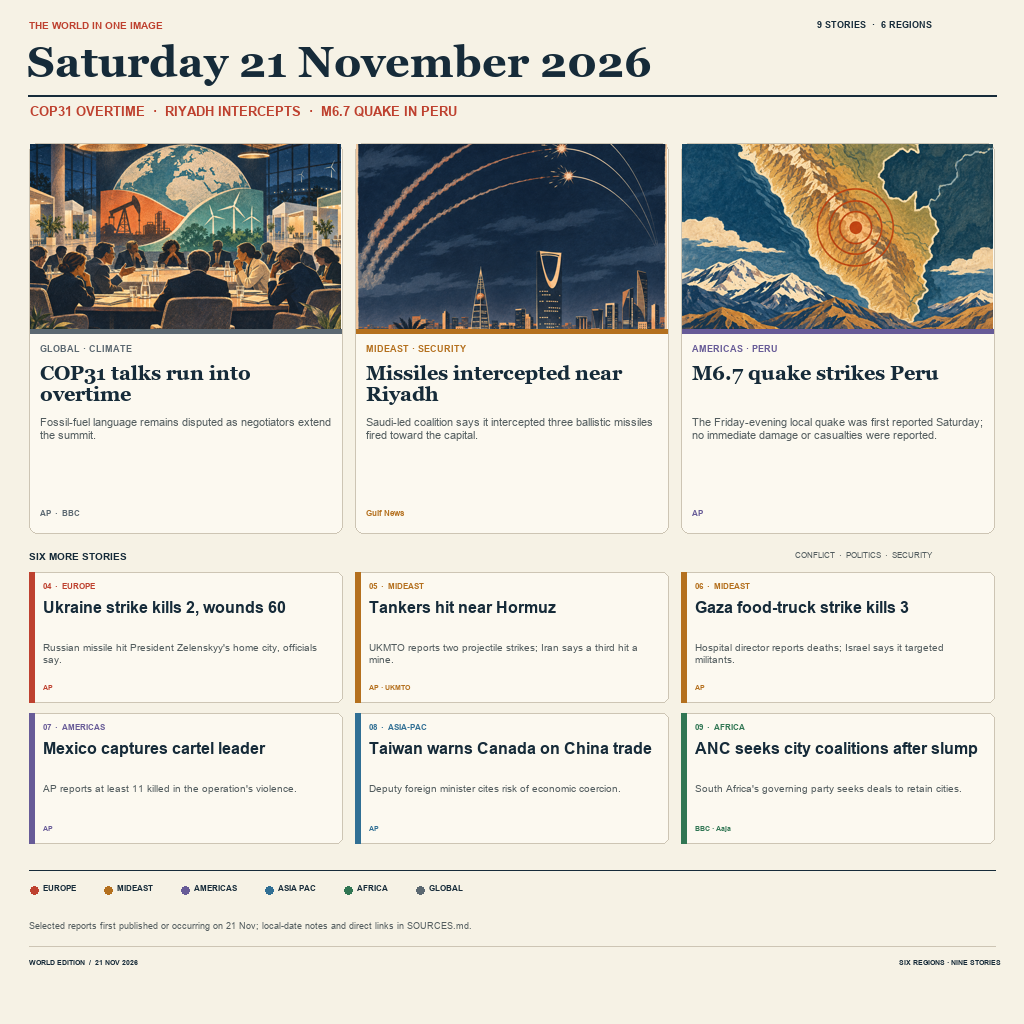
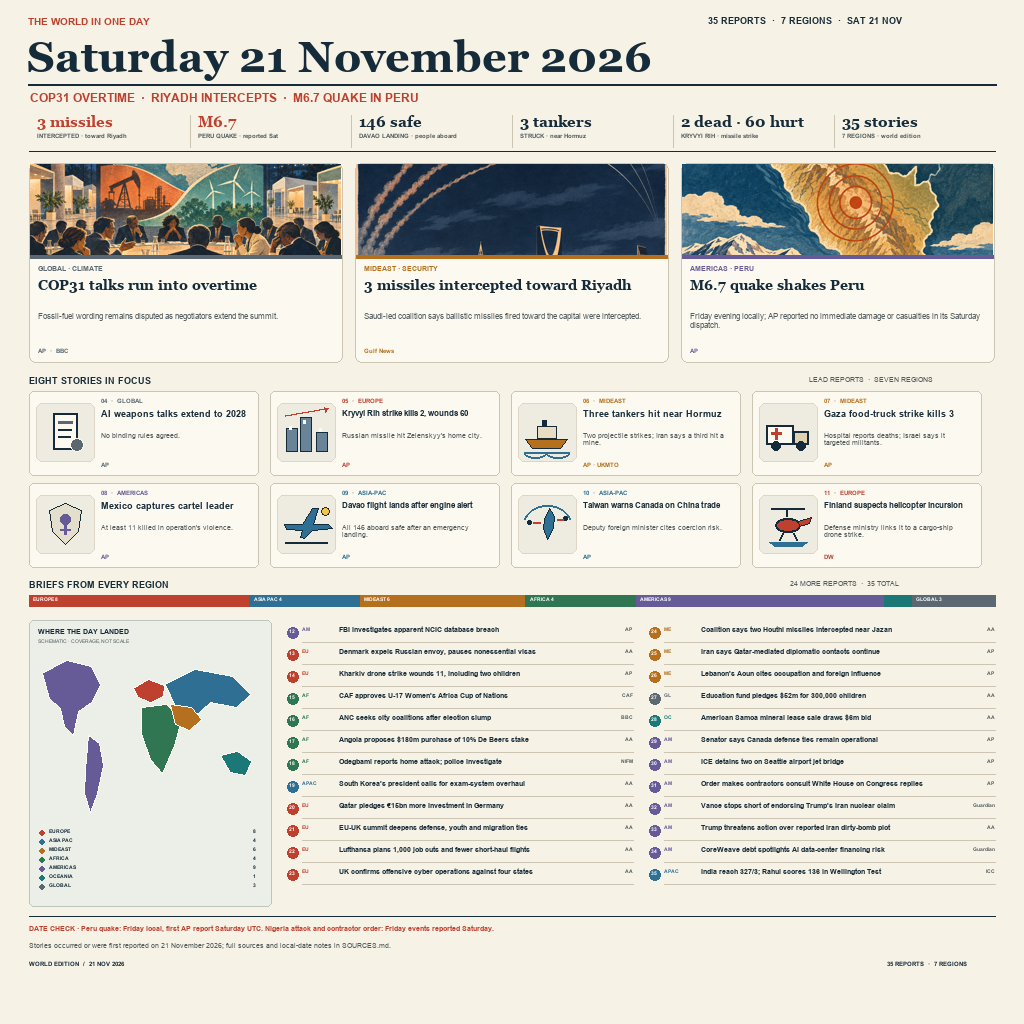
Broaden the 21 November news digest

diff --git a/SOURCES.md b/SOURCES.md
@@ -1,6 +1,6 @@
 # Source ledger — Saturday 21 November 2026
 
-The image is an editorial selection of nine reports across six regions. It prioritizes consequential stories and geographic breadth; event and reporting dates are distinguished below where they differ.
+The image separates three lead stories, eight feature reports, and 24 briefs across seven regions. Reports are dated to the 21 November news cycle; where the event date differs, the date note says so.
 
 ## Lead stories
 
@@ -8,11 +8,40 @@ The image is an editorial selection of nine reports across six regions. It prior
 2. **Riyadh missile interceptions.** Saudi-led coalition said it intercepted three ballistic missiles fired toward Riyadh. [Gulf News, 21 November](https://gulfnews.com/uae/middle-east-war-8-things-uae-residents-need-to-know-tonight-november-21-1.500756425)
 3. **Peru earthquake.** **Date shift:** a magnitude 6.7 quake struck at 7:09 p.m. Friday local time; AP's first report is dated Saturday UTC and said no damage or casualties were immediately reported. [Associated Press](https://apnews.com/article/d9c0a1de6be970d6a5a36993c607f29f)
 
-## Other reports
+## Eight feature reports
 
-4. **Kryvyi Rih strike.** AP reported two killed and 60 wounded in the Russian missile strike; local officials supplied the casualty figures. [Associated Press](https://apnews.com/article/russia-ukraine-war-missile-zelenskyy-trump-bfdee2ffadc2693e7338d6822e5356ef)
-5. **Hormuz shipping.** AP's Saturday roundup says the UKMTO reported two tankers hit by projectiles and Iran's navy said a third struck a mine. Attribution remains vessel-specific. [Associated Press](https://apnews.com/article/29159a6f3365ff447c0ccbd1d7260f75)
-6. **Gaza strike.** Three men were killed in a strike on a food-carrying truck, according to Shifa Hospital's director; Israel said it targeted Islamic Jihad militants in the vehicle. [Associated Press](https://apnews.com/article/29159a6f3365ff447c0ccbd1d7260f75)
-7. **Mexico cartel capture.** Authorities captured Fausto Isidro Meza Flores; AP reported at least 11 people killed in the operation's violence. [Associated Press](https://apnews.com/article/mexico-cartels-el-chapo-isidro-sinaloa-violence-7301b67a1b1b974bc6bd20c9d030ce07)
-8. **Taiwan-Canada warning.** Taiwan's deputy foreign minister warned Canada against deeper China trade ties at the Halifax security forum. [Associated Press](https://apnews.com/article/2e5eb3949e4c1a1d394363663791f883)
-9. **South African coalition talks.** The ANC was seeking coalition deals to retain city governments after a poor local-election result; the BBC report was published 21 November. [BBC report, republished by Aaja News](https://news.aaja.co/articles/65711/)
+4. UN-backed Geneva talks extended discussion of lethal autonomous weapons for two years, without a binding-standards commitment. [Associated Press](https://apnews.com/article/ebe057d2a47cde53100970c8f648e7fa)
+5. AP reported two killed and 60 wounded in the Russian missile strike on Kryvyi Rih; local officials supplied the casualty figures. [Associated Press](https://apnews.com/article/russia-ukraine-war-missile-zelenskyy-trump-bfdee2ffadc2693e7338d6822e5356ef)
+6. AP's Saturday roundup says the UKMTO reported two tankers hit by projectiles and Iran's navy said a third struck a mine. Attribution remains vessel-specific. [Associated Press](https://apnews.com/article/29159a6f3365ff447c0ccbd1d7260f75)
+7. Three men were killed in a strike on a food-carrying truck in Gaza, according to Shifa Hospital's director; Israel said it targeted Islamic Jihad militants in the vehicle. [Associated Press](https://apnews.com/article/29159a6f3365ff447c0ccbd1d7260f75)
+8. Mexican authorities captured Fausto Isidro Meza Flores; AP reported at least 11 people killed in the operation's violence. [Associated Press](https://apnews.com/article/mexico-cartels-el-chapo-isidro-sinaloa-violence-7301b67a1b1b974bc6bd20c9d030ce07)
+9. An Air Niugini flight carrying 146 passengers and crew made an emergency landing in Davao after an indication of a possible engine fire; all aboard were safe, officials said. [Associated Press, 21 November](https://apnews.com/article/a7626e8c97e7b829d3c825c15b5a50c4)
+10. Taiwan's deputy foreign minister warned Canada against deeper China trade ties at the Halifax security forum. [Associated Press](https://apnews.com/article/2e5eb3949e4c1a1d394363663791f883)
+11. Finland's Defense Ministry suspected a Russian helicopter violated its airspace and linked the concern to a drone strike on a Russian cargo ship. [Deutsche Welle](https://www.dw.com/en/russian-helicopter-suspected-of-violating-finnish-airspace/a-80010133)
+
+## Twenty-four briefs
+
+12. FBI is investigating an apparent breach of the National Crime Information Center, AP reported citing a person familiar with the matter. [Associated Press](https://apnews.com/article/d066cff87a64a564db0a00172c124972)
+13. Denmark ordered Russia's defense attaché to leave and said it would halt non-essential visas for Russian citizens. [Anadolu Agency, Saturday briefing](https://www.aa.com.tr/en/world/morning-briefing-nov-21-2026/4132676)
+14. A Russian drone attack on an apartment building in Ukraine's Kharkiv region wounded 11 people, including two children, officials said. [Associated Press](https://apnews.com/article/russia-ukraine-war-missile-zelenskyy-trump-bfdee2ffadc2693e7338d6822e5356ef)
+15. CAF's executive committee approved the launch of a U-17 Women's Africa Cup of Nations. [CAF, 21 November](https://www.cafonline.com/inside-caf/news/caf-executive-committee-approves-historic-launch-of-u-17-womens-africa-cup-of-nations-and-opens-bidding-for-wafcon-2028/)
+16. The ANC was seeking coalition deals to retain city governments after a poor local-election result; the BBC report was published 21 November. [BBC report, republished by Aaja News](https://news.aaja.co/articles/65711/)
+17. Angola's state diamond miner Endiama said it would buy a 10% De Beers stake for $180 million. [Anadolu Agency, Saturday briefing](https://www.aa.com.tr/en/world/morning-briefing-nov-21-2026/4132676)
+18. **Date shift:** former Nigeria captain Segun Odegbami said three armed men attacked his home early Friday; Nigeria Info FM published his account Saturday, and police said they were investigating. [Nigeria Info FM, 21 November](https://www.nigeriainfo.fm/abuja/news/homepage/odegbami-survives-machete-attack-at-abeokuta-home/)
+19. South Korean President Lee Jae Myung called for an exam-system overhaul and tougher penalties after cheating scandals involving AI and prohibited devices. [Anadolu Agency, Saturday briefing](https://www.aa.com.tr/en/world/morning-briefing-nov-21-2026/4132676)
+20. German Chancellor Friedrich Merz and Qatar's emir announced expanded cooperation; Qatar pledged an additional €15 billion in investment in Germany. [Anadolu Agency, Saturday briefing](https://www.aa.com.tr/en/world/morning-briefing-nov-21-2026/4132676)
+21. The EU and UK agreed to deepen cooperation on security, defense, youth mobility and migration at their Brussels summit. [Anadolu Agency, Saturday briefing](https://www.aa.com.tr/en/world/morning-briefing-nov-21-2026/4132676)
+22. Lufthansa planned 1,000 job cuts and lower short- and medium-haul capacity after reporting a €180 million operating loss for the first nine months of 2026. [Anadolu Agency, Saturday briefing](https://www.aa.com.tr/en/world/morning-briefing-nov-21-2026/4132676)
+23. A senior British military commander publicly confirmed offensive cyber operations by the UK's National Cyber Force against Russia, China, Iran and North Korea. [Anadolu Agency, Saturday briefing](https://www.aa.com.tr/en/world/morning-briefing-nov-21-2026/4132676)
+24. Saudi-led coalition said it intercepted two Houthi ballistic missiles aimed at Jazan; no casualties or damage were reported. [Anadolu Agency, Saturday briefing](https://www.aa.com.tr/en/world/morning-briefing-nov-21-2026/4132676)
+25. Iran's deputy foreign minister said Tehran remained in contact with Qatar mediators about a possible renewed diplomatic opening. [Associated Press](https://apnews.com/article/29159a6f3365ff447c0ccbd1d7260f75)
+26. Lebanon's President Joseph Aoun, speaking on Independence Day, named Israel's occupation and foreign interference as obstacles, specifically referring to influential figures in Iran. [Associated Press](https://apnews.com/article/29159a6f3365ff447c0ccbd1d7260f75)
+27. Education Cannot Wait announced $52 million to support more than 300,000 children affected by crises in Lebanon, Myanmar and South Sudan. [Anadolu Agency, Saturday briefing](https://www.aa.com.tr/en/world/morning-briefing-nov-21-2026/4132676)
+28. The first U.S. offshore critical-minerals lease sale near American Samoa drew $6 million in high bids from one bidder. [Anadolu Agency, Saturday briefing](https://www.aa.com.tr/en/world/morning-briefing-nov-21-2026/4132676)
+29. Sen. Mike Rounds said new Pentagon limits on Canada mostly covered think-tank events and social engagement, not military operations or intelligence sharing. [Associated Press](https://apnews.com/article/pentagon-canada-halifax-security-forum-think-tanks-1959fff46997c899f3c2bc2df7220ec6)
+30. Immigration officers detained two people on a crowded Seattle airport jet bridge, delaying a flight; the airline called the scene distressing. [Associated Press](https://apnews.com/article/immigration-arrest-seattle-airport-ice-4748ddb6161c28853d763e835aeb31f1)
+31. **Date shift:** AP reported a late-Friday executive order directing federal contractors to consult the White House before responding to congressional inquiries. [Associated Press, report dated 21 November](https://apnews.com/article/9546e1d7acdf3e65b654d1c5162cb0bd)
+32. At a Saturday news conference, Vice President JD Vance stopped short of endorsing Donald Trump's claim about Iran's nuclear program. [The Guardian, 21 November](https://www.theguardian.com/us-news/2026/nov/21/vance-trump-iran-nuclear-weapon)
+33. Trump threatened military action if Iran carried out a reported “dirty bomb” plot targeting Washington; the allegation was not independently established in the briefing. [Anadolu Agency, Saturday briefing](https://www.aa.com.tr/en/world/morning-briefing-nov-21-2026/4132676)
+34. The Guardian examined debt and financing risks in the AI data-center boom through cloud-computing company CoreWeave. [The Guardian, 21 November](https://www.theguardian.com/business/2026/nov/21/debt-laden-cloud-computing-company-coreweave-ai-boom)
+35. On the 21 November match day in Wellington, India scored 327/3, led by KL Rahul's 136. [International Cricket Council, 21 November](https://www.icc-cricket.com/tournaments/world-test-championship/news/india-s-near-perfect-day-puts-them-ahead-in-wellington)

diff --git a/README.md b/README.md
@@ -4,7 +4,7 @@
 [![rank](https://make.fun/badge/news-image-20261121/gishou0930/bounty-news-image-20261121/rank.svg)](https://make.fun/bounty/news-image-20261121/leaderboard?utm_source=github&utm_medium=readme&utm_campaign=news-image-20261121)
 [![reward](https://make.fun/badge/news-image-20261121/gishou0930/bounty-news-image-20261121/reward.svg)](https://make.fun/bounty/news-image-20261121?utm_source=github&utm_medium=readme&utm_campaign=news-image-20261121)
 
-A sourced editorial image of nine consequential world-news reports across six regions on 21 November 2026, with date notes and citations in [SOURCES.md](SOURCES.md).
+A sourced editorial image of 35 world-news reports across seven regions on 21 November 2026, with date notes and citations in [SOURCES.md](SOURCES.md).
 
 ![Saturday 21 November 2026 world edition](entry.png)
 
